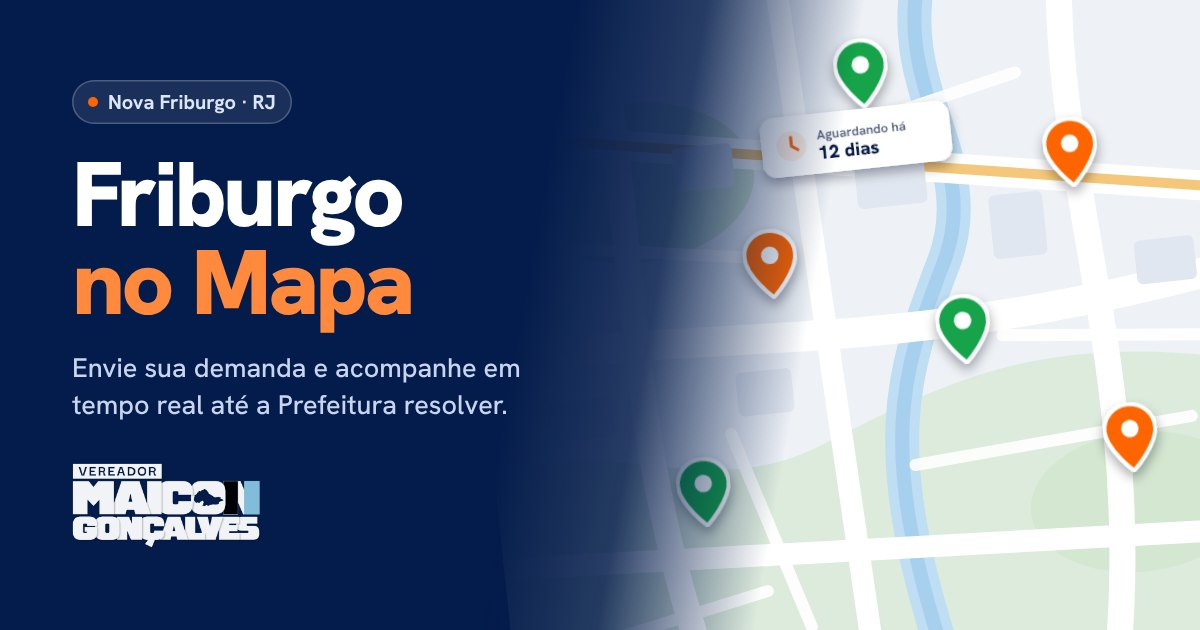
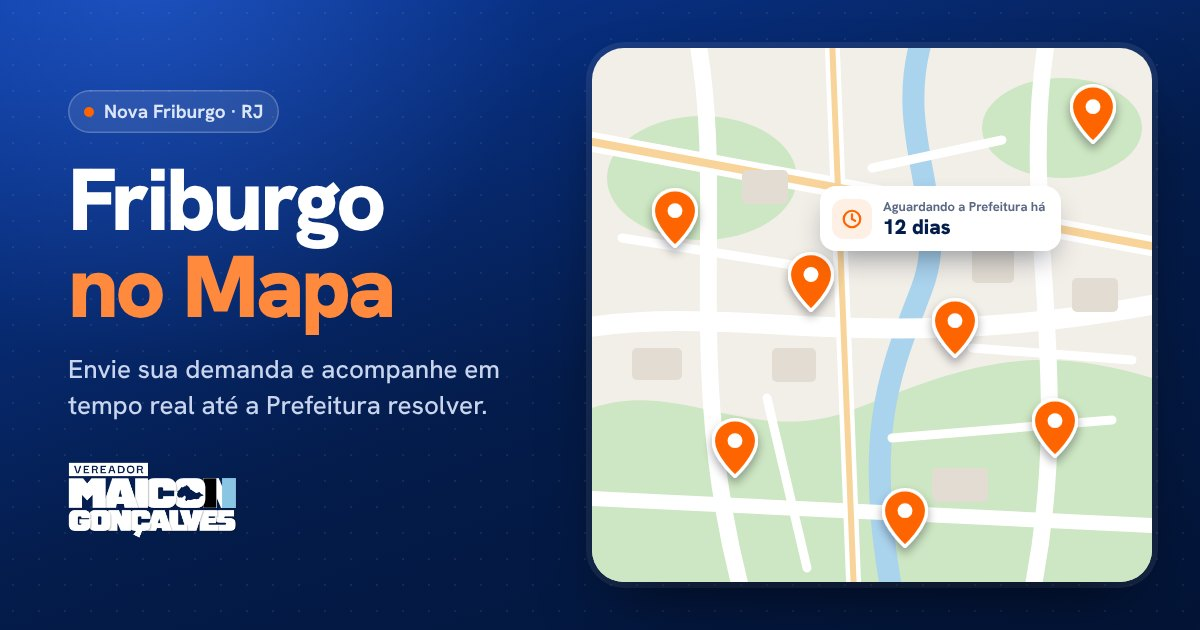
Imagens de compartilhamento refeitas: mapa sem degradê e pinos laranja; montanhas iguais ao rodapé
Claude-Session: https://claude.ai/code/session_01ACnBtLjDkQ9T58yWD67GD4

diff --git a/app/views/meta.php b/app/views/meta.php
@@ -11,7 +11,7 @@ $meta += [
     'page' => '',
 ];
 // imagem padrão para compartilhar: logo em fundo azul (1200x630). Páginas e artigos podem definir a sua.
-if (!$meta['image']) { $meta['image'] = abs_url('/img/og-padrao.jpg'); $meta['image_w'] = 1200; $meta['image_h'] = 630; $meta['image_alt'] = 'Vereador Maicon Gonçalves – Nova Friburgo'; }
+if (!$meta['image']) { $meta['image'] = abs_url('/img/og-padrao.jpg') . '?v=2'; $meta['image_w'] = 1200; $meta['image_h'] = 630; $meta['image_alt'] = 'Vereador Maicon Gonçalves – Nova Friburgo'; }
 
 // dados estruturados de cada tipo de página
 $__page = ['@type' => 'WebPage', '@id' => $meta['canonical'] . '#pagina', 'url' => $meta['canonical'], 'name' => $meta['title'], 'description' => $meta['description'],

diff --git a/index.php b/index.php
@@ -52,7 +52,7 @@ if ($slug === 'friburgo-no-mapa') {
     require_once ROOT . '/app/tickets.php';
     $meta = [
         'title' => 'Friburgo no Mapa – envie sua demanda | Vereador Maicon Gonçalves',
-        'image' => abs_url('/img/og-friburgo-no-mapa.jpg'), 'image_w' => 1200, 'image_h' => 630,
+        'image' => abs_url('/img/og-friburgo-no-mapa.jpg') . '?v=2', 'image_w' => 1200, 'image_h' => 630,
         'image_alt' => 'Friburgo no Mapa: envie sua demanda e acompanhe em tempo real',
         'description' => 'Envie sua demanda ao nosso gabinete. Nós conferimos, encaminhamos oficialmente à Prefeitura de Nova Friburgo e você acompanha tudo em tempo real no mapa.',
     ];
